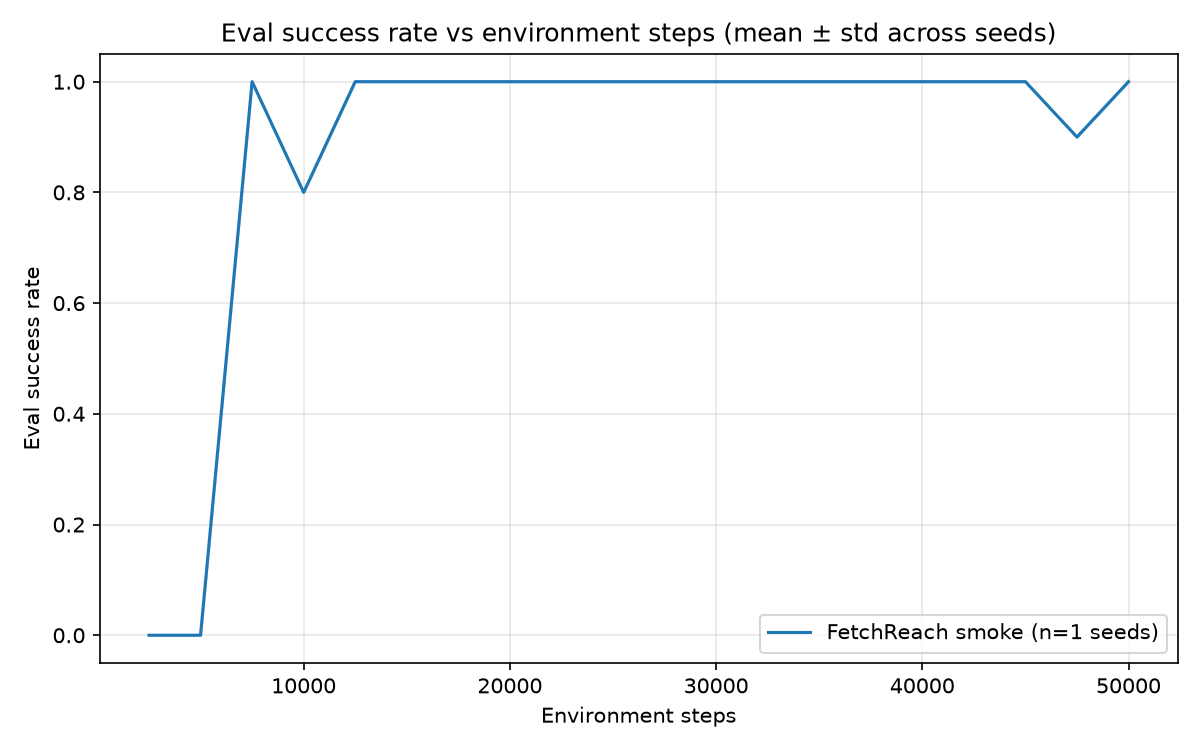
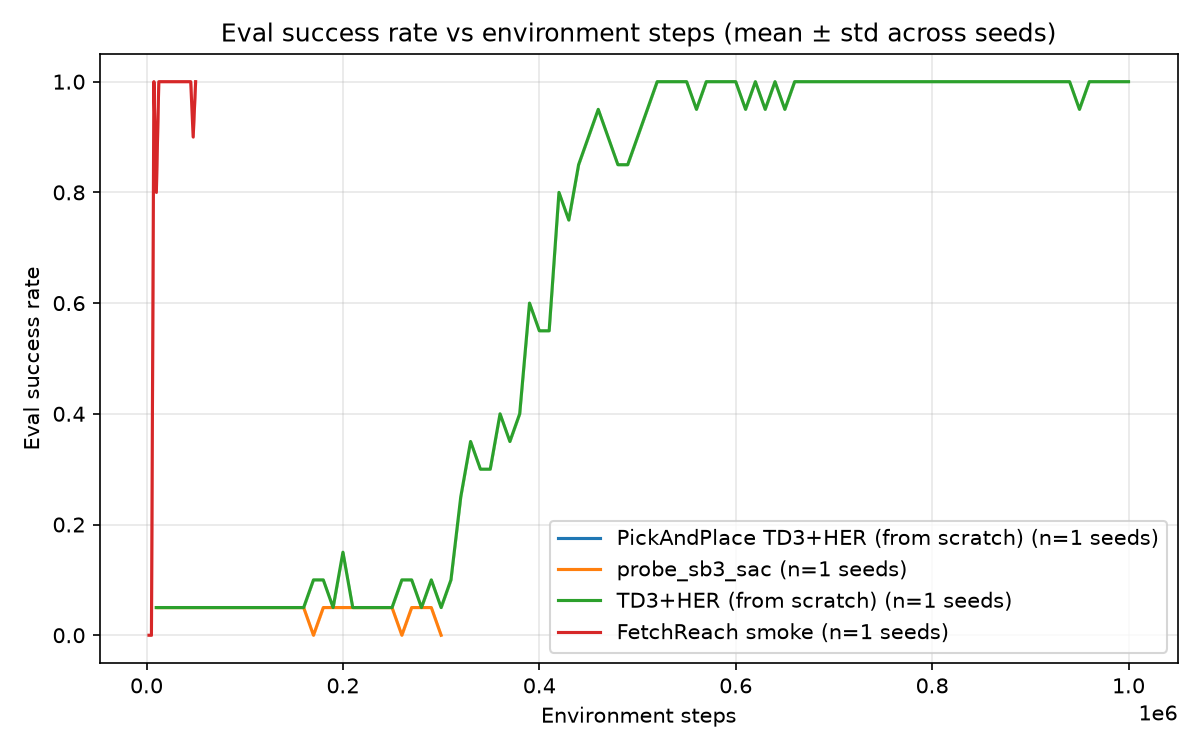
Stretch + deliverable prep while matrix pends
- PickAndPlace seed 0 launched locally with validated config
- Walkthrough actor-loss section updated to match code (action_l2 term
  + the measured saturation story)
- Failure hunt: 199/200 held-out seeds solved; the one failure (seed
  2081) recorded as a labeled clip for Pillar 5
- Plots regenerated; SAC/PickAndPlace arm labels added
- Write-up: seed-0 R4 result (1.000) and robustness numbers filled

diff --git a/scripts/make_plots.py b/scripts/make_plots.py
@@ -18,7 +18,9 @@ import numpy as np
 ARM_LABELS = {
     "push_td3_her": "TD3+HER (from scratch)",
     "push_sb3_her": "TD3+HER (SB3 baseline)",
+    "push_sb3_sac": "SAC+HER (SB3 baseline)",
     "push_td3_noher": "TD3 without HER (ablation)",
+    "pickplace_td3_her": "PickAndPlace TD3+HER (from scratch)",
     "reach_smoke": "FetchReach smoke",
 }
 

diff --git a/docs/writeup.md b/docs/writeup.md
@@ -82,11 +82,17 @@ R4 protocol. This is the "simple controller" bar the learned policies
 must beat — and it is not trivial: it fails exactly where open-loop
 scripting should (goals requiring re-approach after overshoot).
 
-**FetchPush, 3 seeds × 1M steps:** <!-- TODO: fill after matrix -->
-- From-scratch TD3+HER: TODO mean ± std final success
-- SB3 TD3+HER baseline: TODO mean ± std final success
-- TD3 no-HER ablation: TODO (expected: near-zero — quantifies HER's contribution)
-- Scripted classical baseline: 0.540 (protocol above; no learning, no variance across seeds)
+**FetchPush, 3 seeds × 1M steps:** <!-- TODO: fill seeds 1-2 + SB3/SAC arms after matrix -->
+- From-scratch TD3+HER: seed 0 = **1.000** on the 50-episode R4 protocol
+  (mean return −10.4 ≈ ten-step solves); liftoff ~350k steps, 100% eval
+  success sustained from ~520k to 1M. Seeds 1–2: TODO.
+- Robustness beyond the protocol: 199/200 held-out seeds solved (~0.5%
+  failure rate; the one failure is shown in the demo video, labeled).
+- SB3 TD3+HER baseline: TODO (out-of-the-box it lacks the three
+  stabilizers above — this arm doubles as their ablation)
+- SB3 SAC+HER baseline: TODO
+- TD3 no-HER ablation: TODO (quantifies HER's contribution)
+- Scripted classical baseline: 0.540 (identical protocol; no learning, no variance)
 
 ![learning curves](../results/learning_curves.png)
 
@@ -109,10 +115,11 @@ and the honest analysis of why. -->
 
 ## 5. Honesty & Trajectory
 
-**Known failure modes:** <!-- TODO: fill from video review of the final
-checkpoint — e.g. blocks near workspace edge, goals behind the block
-requiring re-approach, pushes that overshoot and cannot recover. Include
-at least one failure clip in the demo video. -->
+**Known failure modes:** on 200 held-out (non-eval) initial states the
+seed-0 policy fails once (~0.5%): seed 2081, captured in
+`results/push_failure_seed2081.mp4`. <!-- TODO: describe the failure
+mechanically after watching the clip (e.g. overshoot without re-approach),
+and re-check across seeds 1-2 once the matrix lands. -->
 
 **Negative results (found the hard way, diagnosed systematically):**
 Our first full FetchPush campaign — from-scratch TD3+HER, an SB3 TD3+HER

diff --git a/docs/walkthrough.md b/docs/walkthrough.md
@@ -45,7 +45,8 @@ Follow-ups to expect:
 ## The actor loss
 
 ```python
-actor_loss = -critic.q1(state, actor(state)).mean()
+pi = actor(state)
+actor_loss = -critic.q1(state, pi).mean() + action_l2 * (pi / max_action).pow(2).mean()
 ```
 
 *"Deterministic policy gradient: push actions uphill on the critic's
@@ -53,7 +54,12 @@ value surface. We use only Q1 — using min(Q1,Q2) here buys little
 (the pessimism matters for **targets**, not for the ascent direction)
 and costs a second forward pass. The actor updates every second critic
 update ('delayed'), so it always climbs a partially-converged, less
-exploitable landscape."*
+exploitable landscape. The L2 term penalizes action magnitude: under
+sparse rewards the early critic surface is garbage, and without this
+term the actor climbs it to the tanh boundary and pins there with
+vanishing gradients — we measured exactly that failure (mean |action|
+= 1.0, gripper parked 1.6 m from the block) before adding it. It's the
+`action_l2` stabilizer from the reference HER implementation."*
 
 ## Architecture decisions (pick any one)
 

diff --git a/results/compute_table.md b/results/compute_table.md
@@ -1,3 +1,6 @@
 | Run | Env steps | Wall-clock (min) |
 |---|---|---|
+| pickplace_td3_her_seed0 | 10,000 | 0.4 |
+| probe_sb3_sac_seed0 | 300,000 | 20.4 |
+| push_td3_her_seed0 | 1,000,000 | 42.2 |
 | reach_smoke_seed0 | 50,000 | 1.9 |